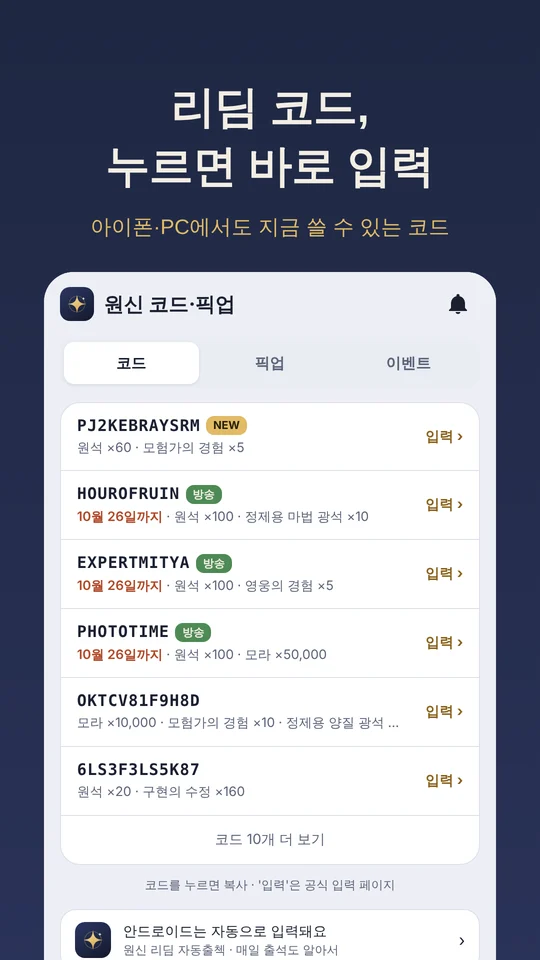
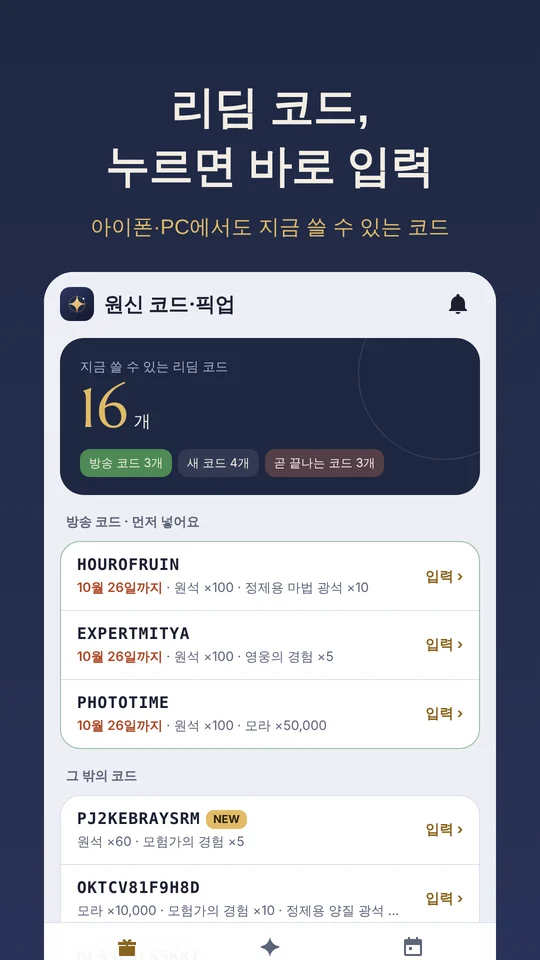
Web app: app-like bottom tabs, code summary hero, livestream codes first
- Bottom tab bar with icons (코드/픽업/이벤트) instead of a top switch
- Navy summary card with the app's numeral font (Marcellus digits, OFL):
  total codes plus livestream/new/ending counts
- Livestream codes in their own group at the top
- Copy feedback on the row itself ('복사됨 ✓')
- Days-left badge on event banners, gold when 3 days or fewer
- Promo screenshots on /checkin/ regenerated for the new layout

diff --git a/genshin-codes/index.html b/genshin-codes/index.html
@@ -22,7 +22,11 @@
   :root { --pyro:#D9573A; --hydro:#3A86D6; --electro:#9A63CF; --cryo:#5DB7D3; --anemo:#3BA88F; --geo:#C99A2E; --dendro:#6FA83A;
           --live:#4E8A55; --warn:#B04A2A; --chip:#E9ECF3; --hero-muted:#A8AFC6; }
   @media (prefers-color-scheme: dark) { :root { --chip:#272D3D; --warn:#E07A55; } }
-  body { padding-top: 0; padding-bottom: calc(32px + env(safe-area-inset-bottom)); }
+  /* 앱의 큰 숫자 글꼴(Marcellus 숫자만, SIL OFL) */
+  @font-face { font-family: "Hoyo Numerals"; src: url("/genshin-codes/fonts/hoyo_numerals.ttf") format("truetype"); font-display: swap; }
+  body { padding-top: 0; padding-bottom: calc(96px + env(safe-area-inset-bottom)); }
+  @keyframes rise { from { opacity: 0; transform: translateY(6px); } to { opacity: 1; transform: none; } }
+  [data-panel]:not([hidden]) { animation: rise .25s ease-out; }
   main { max-width: 560px; }
 
   /* 위: 앱 이름과 알림 버튼 */
@@ -37,11 +41,31 @@
                    border: 2px solid var(--bg); }
   .icon-btn.on { color: var(--accent); }
 
-  /* 탭 */
-  .tabs { display: flex; gap: 4px; background: var(--chip); border-radius: 14px; padding: 4px; margin: 4px 0 14px; }
-  .tabs button { flex: 1; border: 0; background: none; font: inherit; font-size: 15px; font-weight: 700; color: var(--muted);
-                 padding: 8px 0; border-radius: 10px; cursor: pointer; }
-  .tabs button[aria-selected="true"] { background: var(--surface); color: var(--ink); box-shadow: 0 1px 3px rgba(0,0,0,.08); }
+  /* 아래 탭(앱처럼) */
+  .nav { position: fixed; left: 0; right: 0; bottom: 0; z-index: 6; background: color-mix(in srgb, var(--surface) 92%, transparent);
+         backdrop-filter: blur(12px); -webkit-backdrop-filter: blur(12px); border-top: 1px solid var(--line);
+         padding: 6px 12px calc(6px + env(safe-area-inset-bottom)); }
+  .nav div { max-width: 560px; margin: 0 auto; display: flex; }
+  .nav button { flex: 1; border: 0; background: none; font: inherit; font-size: 11px; font-weight: 700; color: var(--muted);
+                display: flex; flex-direction: column; align-items: center; gap: 2px; padding: 6px 0; cursor: pointer; }
+  .nav button svg { width: 24px; height: 24px; }
+  .nav button[aria-selected="true"] { color: var(--ink); }
+  .nav button[aria-selected="true"] svg { color: var(--accent); }
+
+  /* 코드 탭 위 요약 */
+  .sum { position: relative; overflow: hidden; background: var(--hero); color: var(--hero-ink); border-radius: 24px; padding: 18px 20px; margin: 4px 0 14px; }
+  .sum::after { content: ""; position: absolute; right: -50px; top: -50px; width: 170px; height: 170px; border-radius: 50%; border: 1px solid rgba(255,255,255,.12); }
+  .sum .eyebrow { color: var(--hero-muted); font-size: 13px; }
+  .sum .big { display: flex; align-items: baseline; gap: 6px; margin-top: 2px; }
+  .sum .big b { font-family: "Hoyo Numerals", Georgia, serif; font-weight: 400; font-size: 56px; line-height: 1; color: var(--gold); }
+  .sum .big span { font-size: 17px; }
+  .sum .facts { display: flex; flex-wrap: wrap; gap: 6px; margin-top: 12px; }
+  .sum .facts span { font-size: 12px; padding: 4px 9px; border-radius: 10px; background: rgba(255,255,255,.09); }
+  .sum .facts span.hot { background: var(--live); }
+  .sum .facts span.warn { background: rgba(224,122,85,.28); }
+  .label { margin: 16px 6px 8px; font-size: 13px; font-weight: 700; color: var(--muted); }
+  .group.live { border-color: color-mix(in srgb, var(--live) 45%, var(--line)); }
+  .code-row.copied .code { color: var(--live); }
 
   /* 리딤 코드 */
   .group { background: var(--surface); border: 1px solid var(--line); border-radius: 20px; overflow: hidden; }
@@ -95,8 +119,11 @@
   .pill.rnew { background: var(--live); color: #F2EEE3; } .pill.chron { background: var(--gold); color: #2A1F08; } .pill.none { background: var(--hydro); color: #fff; }
 
   /* 이벤트 */
-  .event { display: block; text-decoration: none; color: var(--ink); background: var(--surface); border: 1px solid var(--line);
-           border-radius: 20px; overflow: hidden; margin-bottom: 12px; }
+  .event { position: relative; display: block; text-decoration: none; color: var(--ink); background: var(--surface); border: 1px solid var(--line);
+           border-radius: 20px; overflow: hidden; margin-bottom: 14px; }
+  .event .left { position: absolute; left: 10px; top: 10px; font-size: 12px; font-weight: 700; padding: 4px 10px; border-radius: 12px;
+                 background: rgba(20,26,46,.72); color: #fff; }
+  .event .left.soon { background: var(--gold); color: #2A1F08; }
   .event img { display: block; width: 100%; aspect-ratio: 16/9; object-fit: cover; background: var(--hero); }
   .event div { padding: 12px 16px 14px; }
   .event strong { display: -webkit-box; -webkit-line-clamp: 2; -webkit-box-orient: vertical; overflow: hidden; font-size: 15px; line-height: 1.45; }
@@ -125,7 +152,7 @@
   .sheet ol { margin: 8px 0 0; padding-left: 1.2em; color: var(--ink); }
   .sheet .fine { margin: 12px 0 0; font-size: 12px; text-align: center; }
 
-  .toast { position: fixed; left: 50%; bottom: calc(24px + env(safe-area-inset-bottom)); transform: translateX(-50%); background: #1B2030; color: #F2EEE3;
+  .toast { position: fixed; left: 50%; bottom: calc(84px + env(safe-area-inset-bottom)); transform: translateX(-50%); background: #1B2030; color: #F2EEE3;
            padding: 10px 16px; border-radius: 12px; font-size: 14px; opacity: 0; transition: opacity .2s; pointer-events: none; z-index: 20; white-space: nowrap; }
   .toast.show { opacity: 1; }
   .empty { padding: 18px; color: var(--muted); font-size: 14px; text-align: center; }
@@ -143,13 +170,11 @@
     </button>
   </div>
 
-  <div class="tabs" role="tablist">
-    <button role="tab" aria-selected="true" data-tab="codes">코드</button>
-    <button role="tab" aria-selected="false" data-tab="pickup">픽업</button>
-    <button role="tab" aria-selected="false" data-tab="events">이벤트</button>
-  </div>
 
   <section data-panel="codes">
+    <div class="sum" id="sum"><div class="eyebrow">지금 쓸 수 있는 리딤 코드</div><div class="big"><b>·</b></div></div>
+    <div id="liveBox" hidden><div class="label">방송 코드 · 먼저 넣어요</div><div class="group live" id="liveCodes"></div></div>
+    <div class="label" id="restLabel" hidden>그 밖의 코드</div>
     <div class="group" id="codes"><div class="empty">불러오는 중...</div></div>
     <p class="tip">코드를 누르면 복사 · '입력'은 공식 입력 페이지</p>
     <a class="app-link" href="/checkin/">
@@ -178,6 +203,12 @@
     HoYoverse와 관련 없는 비공식 페이지예요 · <a href="/">Sumi Lab</a>
   </footer>
 </main>
+
+<nav class="nav" role="tablist"><div>
+  <button role="tab" aria-selected="true" data-tab="codes"><svg viewBox="0 0 24 24" fill="currentColor" aria-hidden="true"><path d="M4 11h16v9a1 1 0 0 1-1 1H5a1 1 0 0 1-1-1Zm-1-4h18v3H3Zm8 0h2v14h-2Zm1 0c-2-4-5.5-3-4-.5.6.5 2 .5 4 .5Zm0 0c2 0 3.4 0 4-.5 1.5-2.5-2-3.5-4 .5Z"/></svg>코드</button>
+  <button role="tab" aria-selected="false" data-tab="pickup"><svg viewBox="0 0 24 24" fill="currentColor" aria-hidden="true"><path d="M12 2c.6 4.9 4.3 8.6 9.2 9.2v1.6C16.3 13.4 12.6 17.1 12 22h-.1c-.6-4.9-4.3-8.6-9.1-9.2v-1.6C7.6 10.6 11.3 6.9 11.9 2Z"/></svg>픽업</button>
+  <button role="tab" aria-selected="false" data-tab="events"><svg viewBox="0 0 24 24" fill="currentColor" aria-hidden="true"><path d="M7 2h2v2h6V2h2v2h2a2 2 0 0 1 2 2v13a2 2 0 0 1-2 2H5a2 2 0 0 1-2-2V6a2 2 0 0 1 2-2h2Zm-2 8v9h14v-9Zm3 2h3v3H8Z"/></svg>이벤트</button>
+</div></nav>
 
 <div class="scrim" id="scrim" hidden></div>
 <div class="sheet" id="sheet" role="dialog" aria-modal="true" aria-labelledby="sheetTitle" hidden>
@@ -215,8 +246,13 @@
   document.addEventListener("click", async e => {
     const b = e.target.closest("[data-copy]");
     if (!b) return;
-    try { await navigator.clipboard.writeText(b.dataset.copy); toast(b.dataset.copy + " 복사했어요"); }
-    catch { toast("복사하지 못했어요"); }
+    try {
+      await navigator.clipboard.writeText(b.dataset.copy);
+      // 누른 자리에서 바로 '복사됨'으로 바뀌었다가 돌아온다.
+      const text = b.textContent, rowEl = b.closest(".code-row");
+      b.textContent = "복사됨 ✓"; rowEl && rowEl.classList.add("copied");
+      setTimeout(() => { b.textContent = text; rowEl && rowEl.classList.remove("copied"); }, 1200);
+    } catch { toast("복사하지 못했어요"); }
   });
 
   // ---------- 탭(마지막으로 본 탭을 기억) ----------
@@ -224,6 +260,7 @@
     document.querySelectorAll("[data-tab]").forEach(b => b.setAttribute("aria-selected", b.dataset.tab === name));
     document.querySelectorAll("[data-panel]").forEach(p => p.hidden = p.dataset.panel !== name);
     store.set("tab", name);
+    window.scrollTo(0, 0);
   }
   document.querySelectorAll("[data-tab]").forEach(b => b.onclick = () => showTab(b.dataset.tab));
   showTab(["codes", "pickup", "events"].includes(store.get("tab")) ? store.get("tab") : "codes");
@@ -236,27 +273,41 @@
 
   // ---------- 리딤 코드 ----------
   let codes = [], expanded = false;
+  function row(c, opened) {
+    const isNew = c.discovered && dayDiff(today, c.discovered) <= 3;
+    const soon = c.expiry && dayDiff(c.expiry, today) <= 2;
+    const until = c.expiry ? (c.expiry === today ? "오늘까지" : md(c.expiry) + "까지") : null;
+    const pills = (!c.live && isNew ? '<span class="pill new">NEW</span>' : "")
+      + (c.server === "전 서버" ? "" : `<span class="pill server only">${esc(c.server)}</span>`);
+    const detail = [until ? `<span class="${soon ? "soon" : ""}">${until}</span>` : "", c.reward ? esc(c.reward) : ""].filter(Boolean).join(" · ");
+    const was = opened.has(c.code);
+    return `<div class="code-row${was ? " opened" : ""}">
+      <div class="code-main">
+        <div class="code-line"><button class="code" data-copy="${esc(c.code)}" title="복사">${esc(c.code)}</button>${pills}</div>
+        ${detail ? `<div class="detail">${detail}</div>` : ""}
+      </div>
+      <a class="enter" href="${GIFT(c.code)}" target="_blank" rel="noopener" data-open="${esc(c.code)}">${was ? "열어 봄" : "입력 ›"}</a>
+    </div>`;
+  }
   function renderCodes() {
     const opened = new Set(store.get("opened", []));
+    const live = codes.filter(c => c.live), rest = codes.filter(c => !c.live);
+    // 위 요약: 큰 숫자 + 방송·새 코드·곧 끝나는 코드
+    const fresh = codes.filter(c => c.discovered && dayDiff(today, c.discovered) <= 3).length;
+    const ending = codes.filter(c => c.expiry && dayDiff(c.expiry, today) <= 2).length;
+    const todo = codes.filter(c => !opened.has(c.code)).length;
+    $("sum").innerHTML = `<div class="eyebrow">지금 쓸 수 있는 리딤 코드</div>
+      <div class="big"><b>${codes.length}</b><span>개</span></div>
+      <div class="facts">${live.length ? `<span class="hot">방송 코드 ${live.length}개</span>` : ""}${fresh ? `<span>새 코드 ${fresh}개</span>` : ""}${ending ? `<span class="warn">곧 끝나는 코드 ${ending}개</span>` : ""}${todo < codes.length ? `<span>아직 안 연 코드 ${todo}개</span>` : ""}</div>`;
+    $("liveBox").hidden = !live.length;
+    $("liveCodes").innerHTML = live.map(c => row(c, opened)).join("");
+    $("restLabel").hidden = !live.length || !rest.length;
     const box = $("codes");
     if (!codes.length) { box.innerHTML = '<div class="empty">지금 쓸 수 있는 코드가 없어요.</div>'; return; }
-    const shown = expanded ? codes : codes.slice(0, FOLDED);
-    box.innerHTML = shown.map(c => {
-      const isNew = c.discovered && dayDiff(today, c.discovered) <= 3;
-      const soon = c.expiry && dayDiff(c.expiry, today) <= 2;
-      const until = c.expiry ? (c.expiry === today ? "오늘까지" : md(c.expiry) + "까지") : null;
-      const pills = (c.live ? '<span class="pill live">방송</span>' : isNew ? '<span class="pill new">NEW</span>' : "")
-        + (c.server === "전 서버" ? "" : `<span class="pill server only">${esc(c.server)}</span>`);
-      const detail = [until ? `<span class="${soon ? "soon" : ""}">${until}</span>` : "", c.reward ? esc(c.reward) : ""].filter(Boolean).join(" · ");
-      const was = opened.has(c.code);
-      return `<div class="code-row${was ? " opened" : ""}">
-        <div class="code-main">
-          <div class="code-line"><button class="code" data-copy="${esc(c.code)}" title="복사">${esc(c.code)}</button>${pills}</div>
-          ${detail ? `<div class="detail">${detail}</div>` : ""}
-        </div>
-        <a class="enter" href="${GIFT(c.code)}" target="_blank" rel="noopener" data-open="${esc(c.code)}">${was ? "열어 봄" : "입력 ›"}</a>
-      </div>`;
-    }).join("") + (codes.length > shown.length ? `<button class="more" id="more">코드 ${codes.length - shown.length}개 더 보기</button>` : "");
+    box.hidden = !rest.length;
+    const shown = expanded ? rest : rest.slice(0, FOLDED);
+    box.innerHTML = shown.map(c => row(c, opened)).join("")
+      + (rest.length > shown.length ? `<button class="more" id="more">코드 ${rest.length - shown.length}개 더 보기</button>` : "");
     const more = $("more");
     if (more) more.onclick = () => { expanded = true; renderCodes(); };
   }
@@ -333,9 +384,10 @@
     const live = list.filter(e => !e.end || e.end > now);
     $("events").innerHTML = live.length ? live.map(e => {
       const left = e.end ? Math.floor((e.end - now) / 86400) : null;
-      const when = e.end ? `${md(new Date(e.end * 1000 + 8 * 3600e3).toISOString().slice(0, 10))}까지 · ${left <= 0 ? "오늘 끝나요" : left + "일 남음"}` : "상시";
+      const when = e.end ? `${md(new Date(e.end * 1000 + 8 * 3600e3).toISOString().slice(0, 10))}까지` : "상시";
+      const pill = left === null ? "" : `<span class="left${left <= 3 ? " soon" : ""}">${left <= 0 ? "오늘 끝나요" : left + "일 남음"}</span>`;
       return `<a class="event" href="${esc(e.url)}" target="_blank" rel="noopener">
-        ${e.banner ? `<img src="${esc(e.banner)}" alt="" loading="lazy" referrerpolicy="no-referrer">` : ""}
+        ${e.banner ? `<img src="${esc(e.banner)}" alt="" loading="lazy" referrerpolicy="no-referrer">` : ""}${pill}
         <div><strong>${esc(e.name)}</strong><span>${when}</span></div></a>`;
     }).join("") : '<div class="group empty">지금 진행 중인 이벤트가 없어요.</div>';
   }
